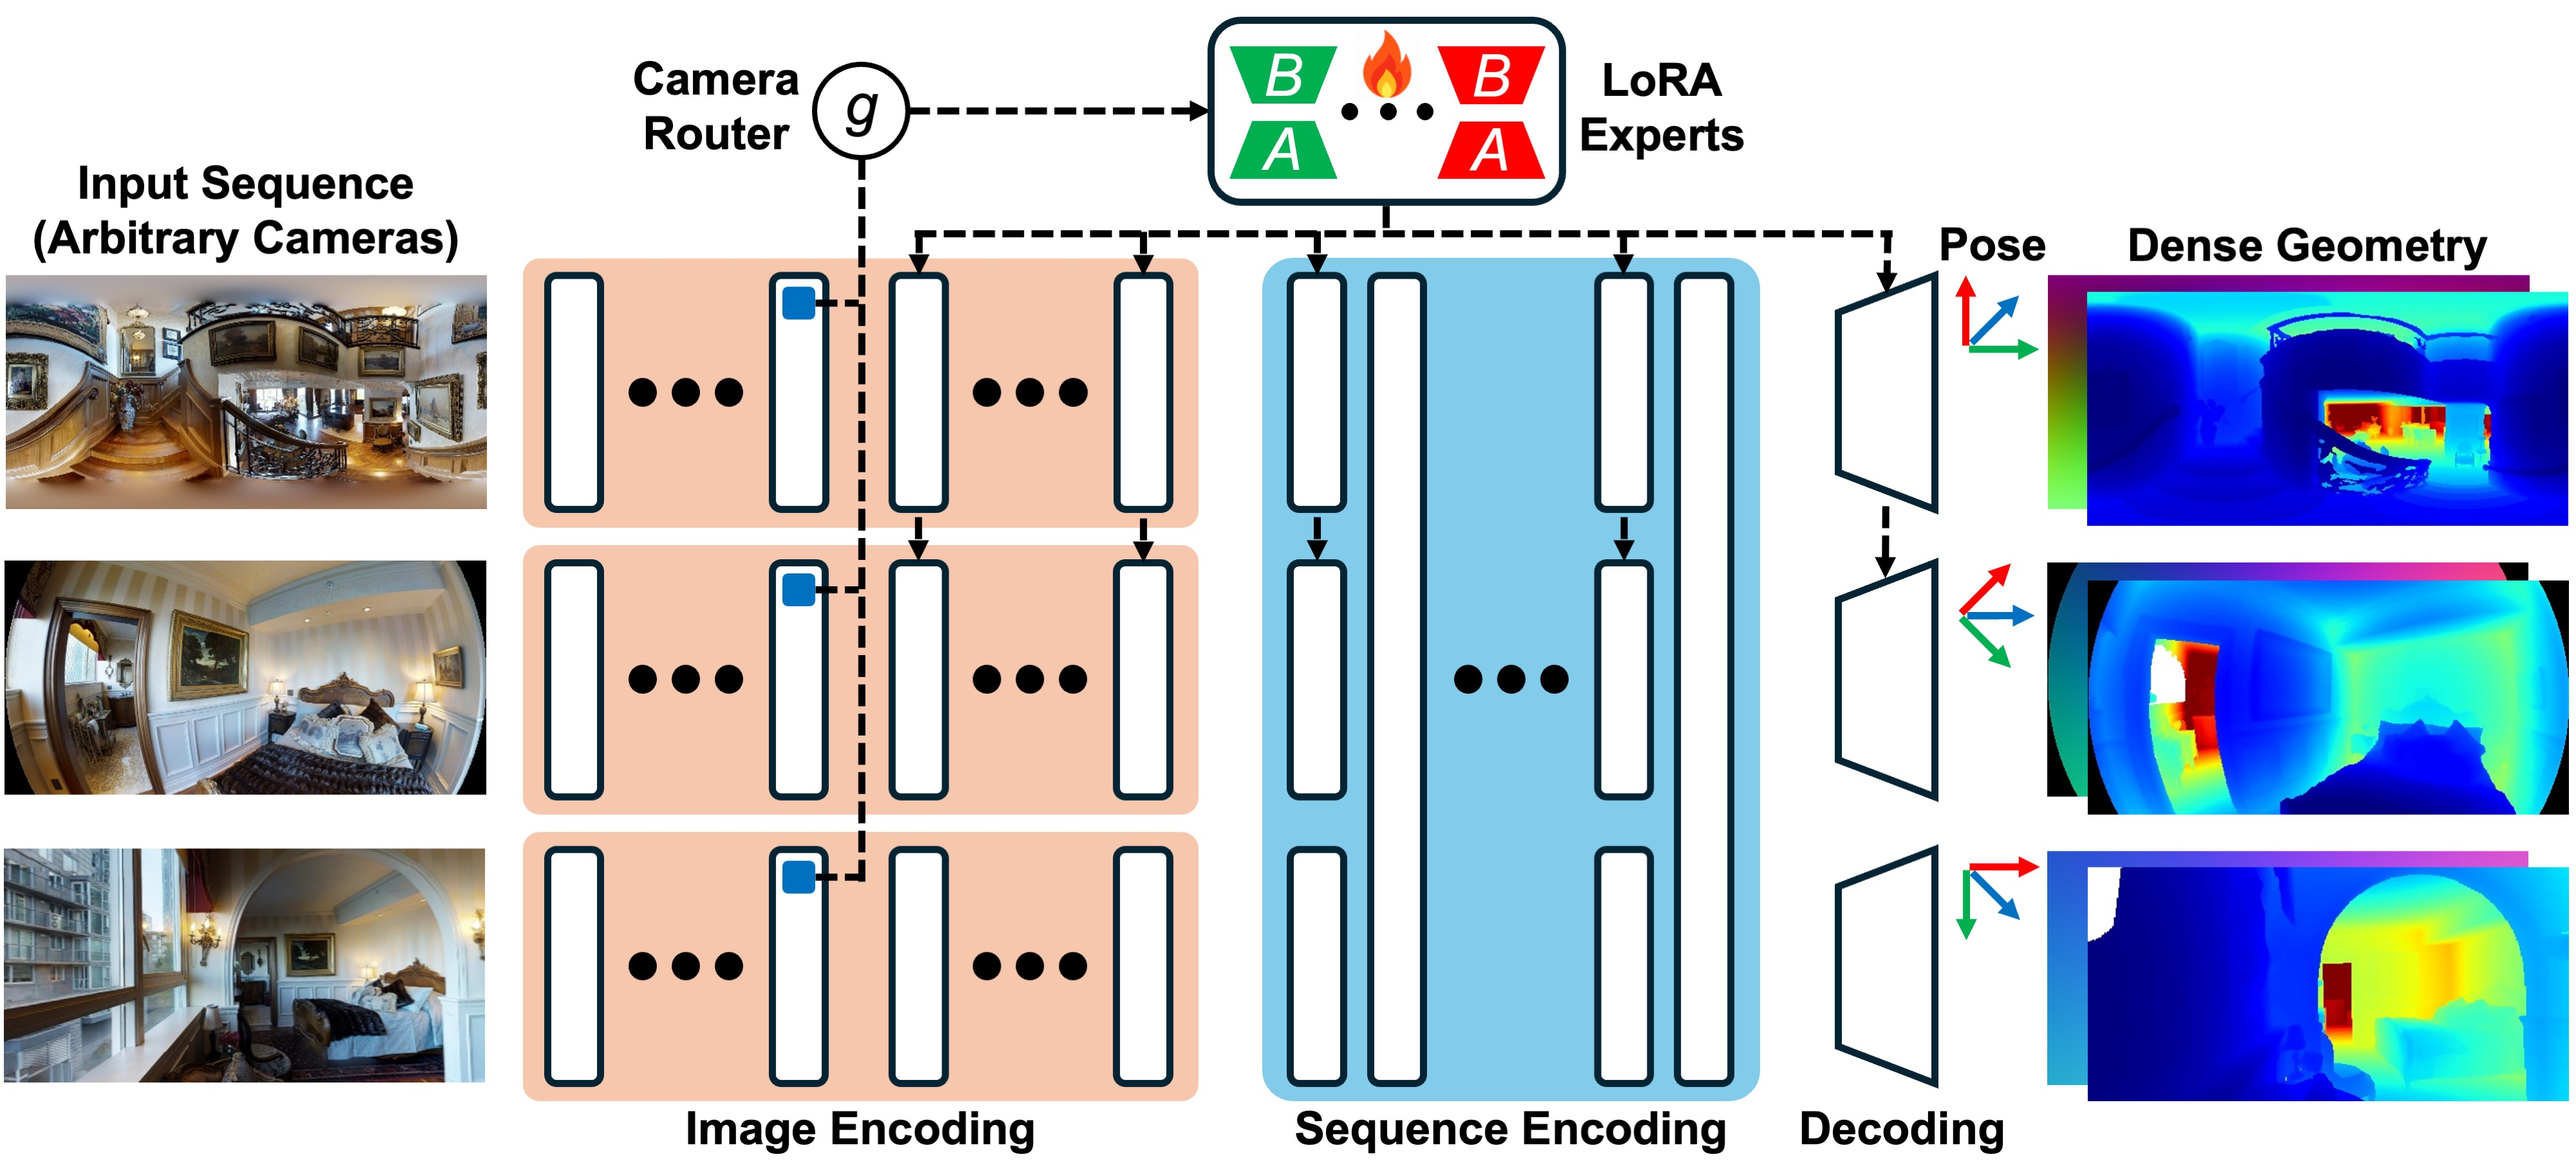
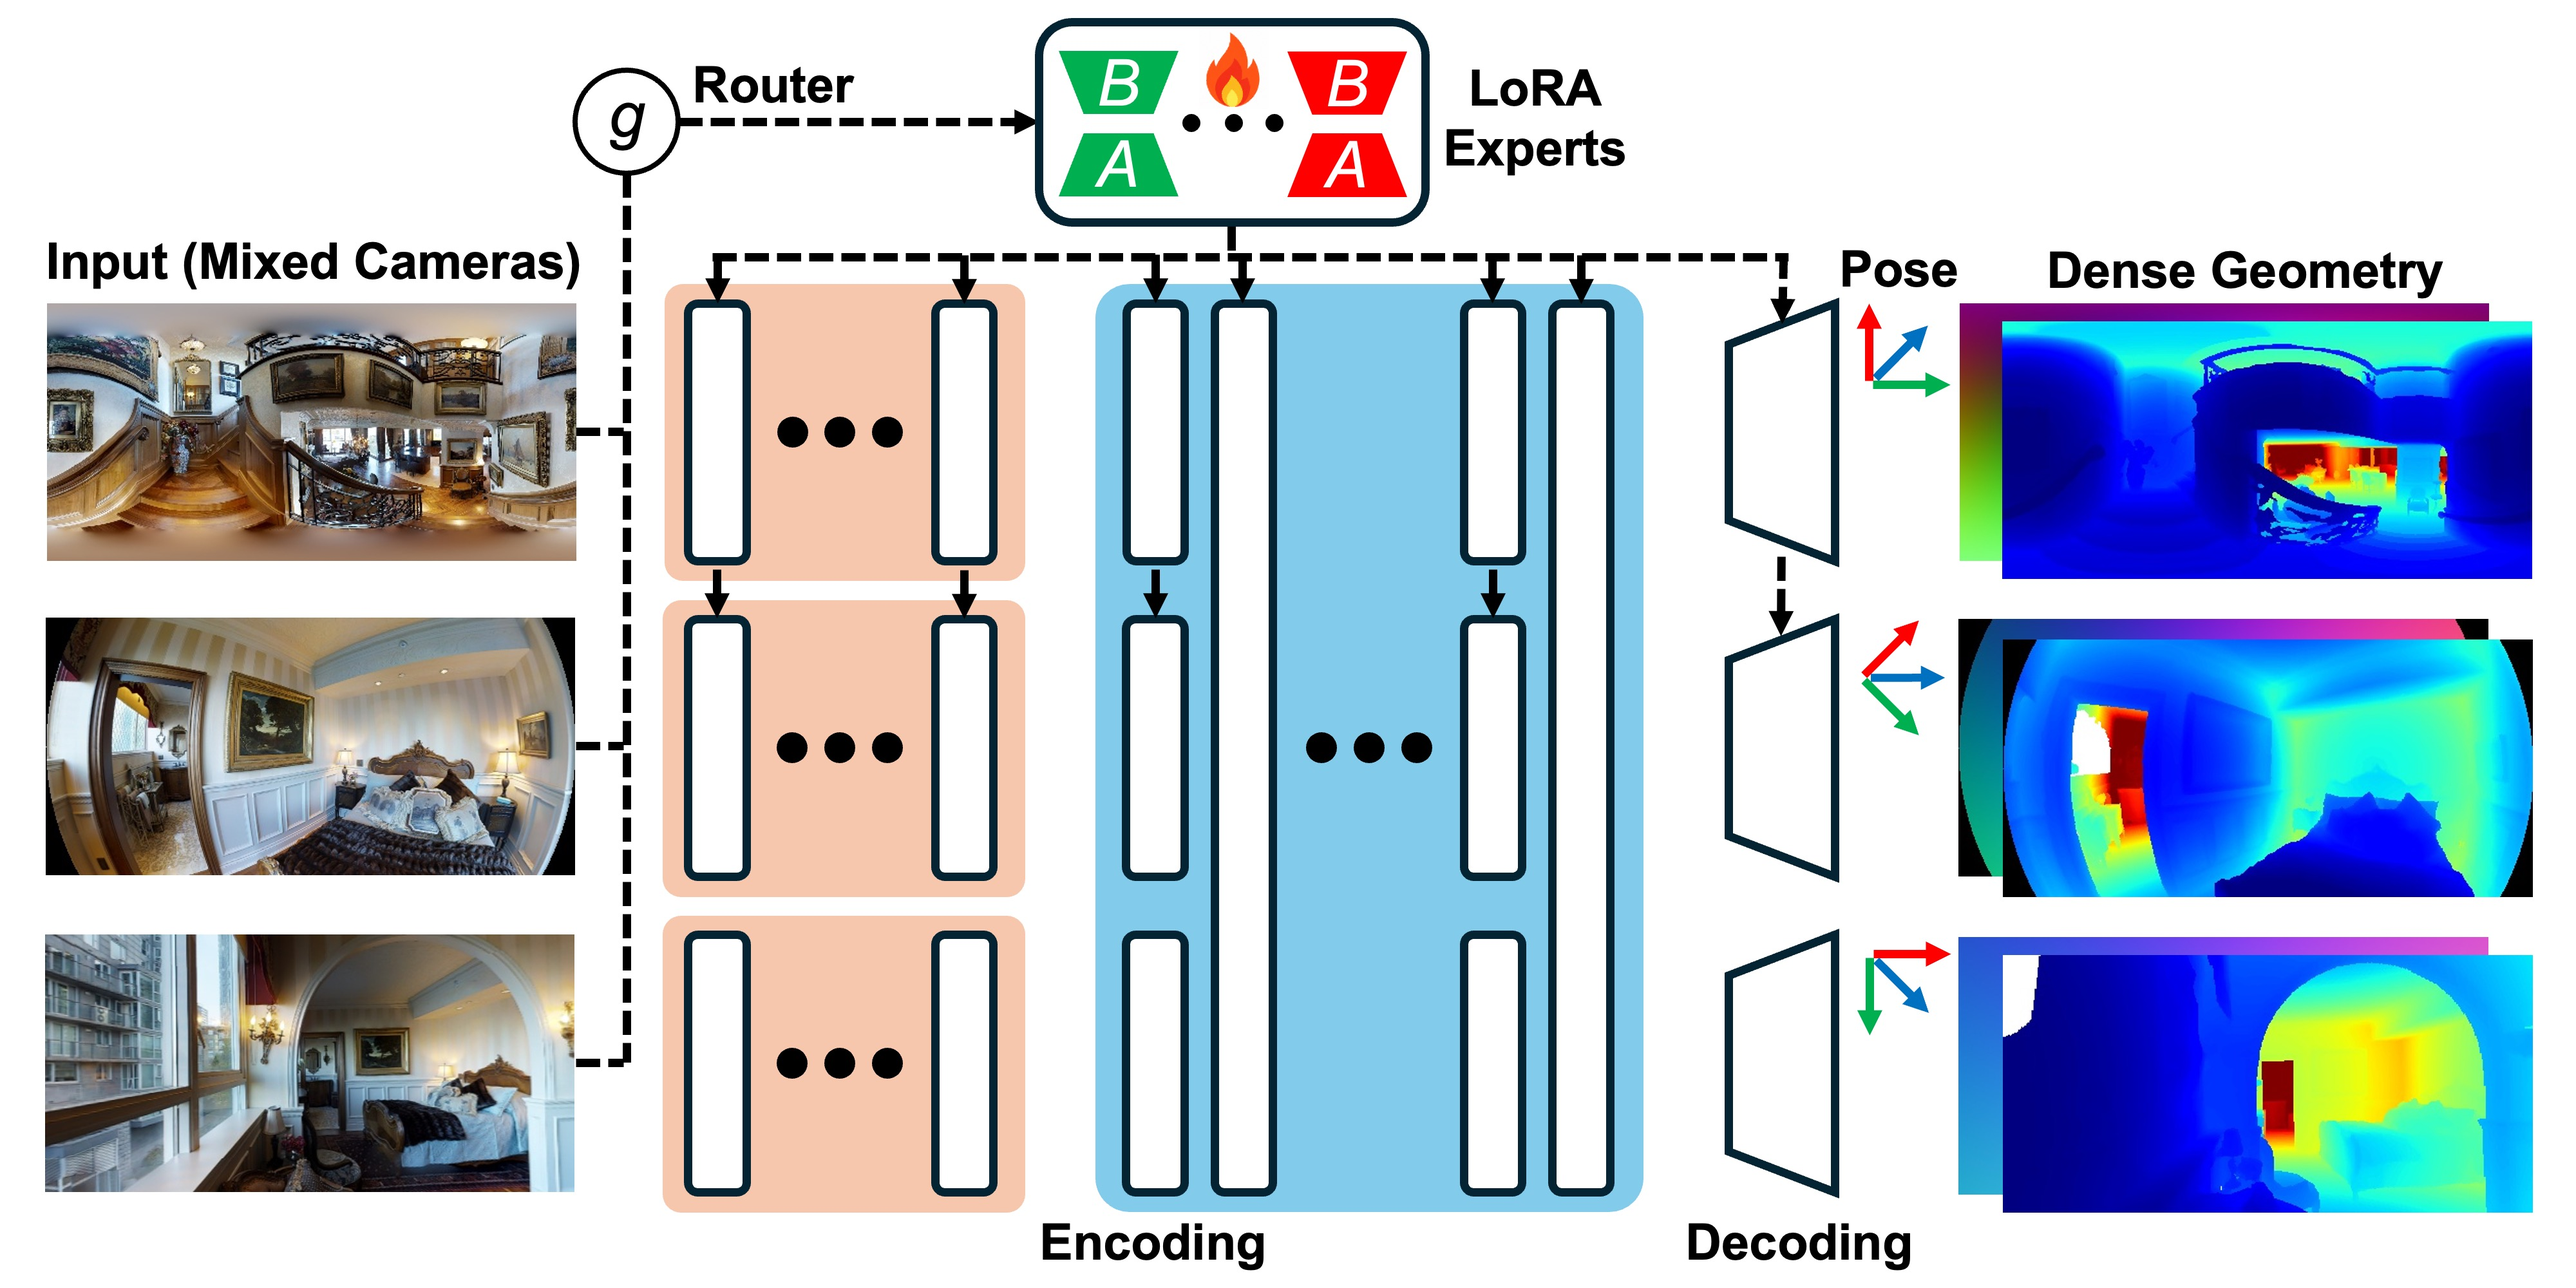
Camera3R

diff --git a/index.html b/index.html
@@ -55,7 +55,7 @@
           <img src="images/google.svg" alt="Google">
           <div>
             <p class="exp-title"><strong>Google</strong></p>
-            <p>Research: Feed-forward 3D/4D reconstruction</p>
+            <p>Research: 3D/4D Reconstruction, Neural Rendering</p>
           </div>
         </article>
       </section>
@@ -67,7 +67,7 @@
           <div>
             <p class="exp-title"><strong>Yale University</strong> (Ph.D. in Computer Science)</p>
             <p>Advisor: <a href="http://vision.cs.yale.edu/members/alex-wong/">Prof. Alex Wong</a></p>
-            <p>Research: 3D/4D scene reconstruction, neural rendering</p>
+            <p>Research: 3D Computer Vision</p>
           </div>
         </article>
         <article class="exp">
@@ -75,7 +75,7 @@
           <div>
             <p class="exp-title"><strong>Johns Hopkins University</strong> (M.S. in Data Science)</p>
             <p>Advisors: <a href="https://www.cs.jhu.edu/~ayuille1/">Prof. Alan Yuille</a> and <a href="https://cifar.ca/bios/craig-jones">Prof. Craig Jones</a></p>
-            <p>Research: Continual learning, uncertainty quantification</p>
+            <p>Research: Continual Learning, Uncertainty Quantification</p>
           </div>
         </article>
         <article class="exp">
@@ -99,9 +99,9 @@
         </article>
 
         <article class="paper">
-          <img class="teaser" src="teasers/camera3r.jpg" alt="Teaser for Extending 3D Reconstruction Models to Any Camera">
+          <img class="teaser" src="teasers/camera3r.jpg" alt="Teaser for Camera3R">
           <div>
-            <h3>Extending 3D Reconstruction Models to Any Camera</h3>
+            <h3><a href="https://arxiv.org/abs/2611.13453">Camera3R: Feed-Forward 3D Reconstruction from Heterogeneous Camera Models</a> <span class="paper-links">[<a href="https://github.com/android-xr/fisheye3r">Code</a>]</span></h3>
             <p class="authors"><strong>Ruxiao Duan</strong>, Yunwen Zhou, Erin Hong, Dongxu Zhao, Eric Turner, Federico Tombari, Alex Wong</p>
             <p class="venue">NeurIPS 2026</p>
           </div>
@@ -117,7 +117,7 @@
         </article>
 
         <article class="paper">
-          <img class="teaser" src="teasers/pescr.jpg" alt="Teaser for Prompt-Based Exemplar Super-Compression and Regeneration for Class-Incremental Learning">
+          <img class="teaser" src="teasers/pescr.jpg" alt="Teaser for PESCR">
           <div>
             <h3><a href="https://arxiv.org/abs/2311.18266">Prompt-Based Exemplar Super-Compression and Regeneration for Class-Incremental Learning</a> <span class="paper-links">[<a href="https://github.com/KerryDRX/PESCR">Code</a>]</span></h3>
             <p class="authors"><strong>Ruxiao Duan</strong>, Jieneng Chen, Adam Kortylewski, Alan Yuille, Yaoyao Liu</p>
